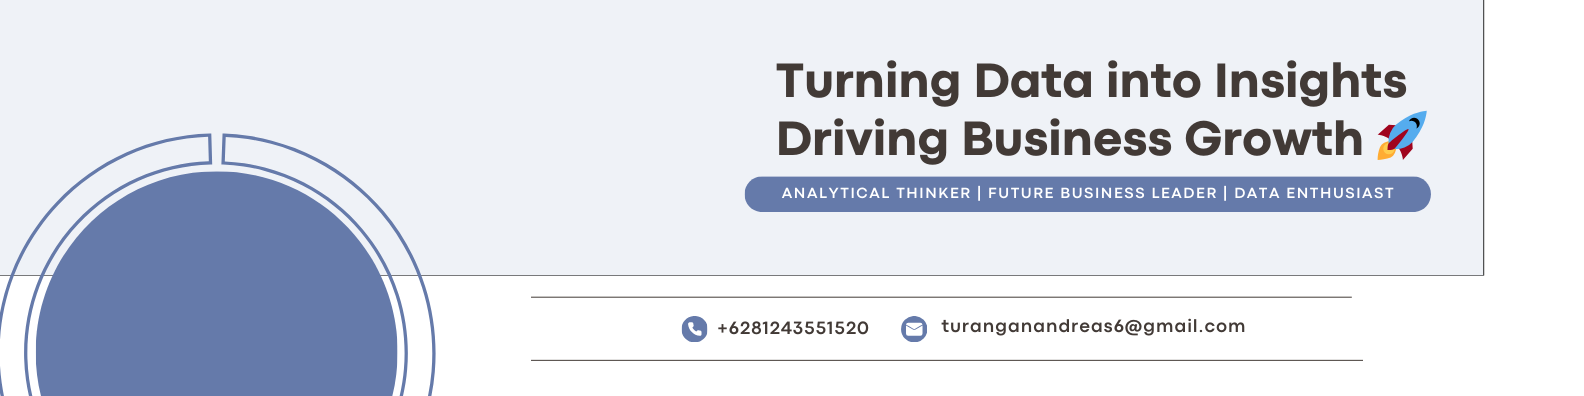
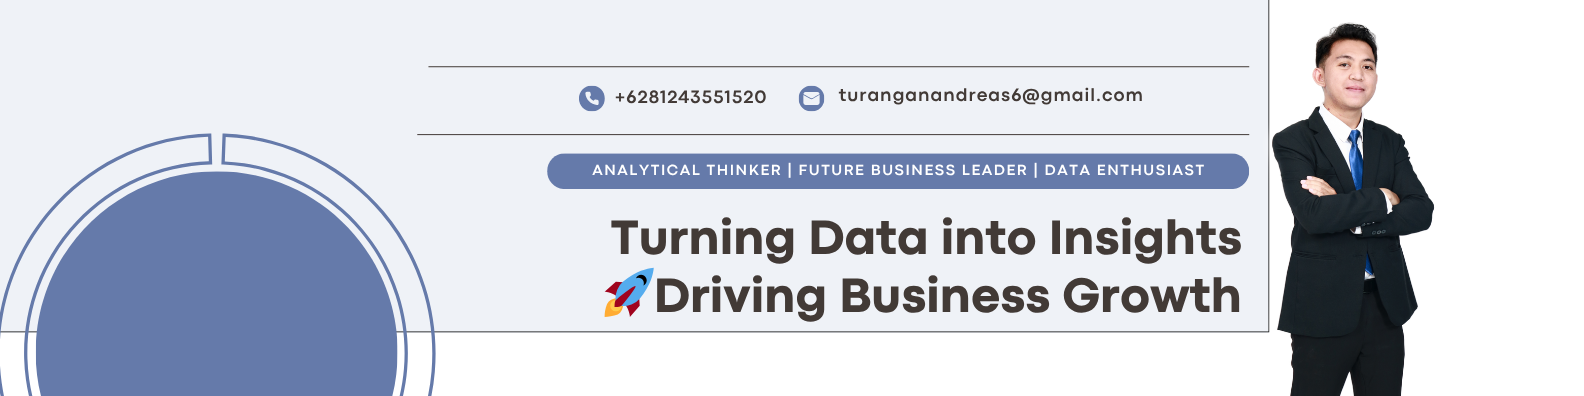
Profile Update 1

Changed region(s): [[0.2475, 0.0606, 0.928, 1.0], [0.0, 0.8182, 0.0309, 0.8485]]

diff --git a/README.md b/README.md
@@ -1,16 +1,10 @@
 ## Hi there 👋
 ![Banner](img/Banner.png)
-<!--
-**AndreasTurangan6/AndreasTurangan6** is a ✨ _special_ ✨ repository because its `README.md` (this file) appears on your GitHub profile.
 
-Here are some ideas to get you started:
+💻 Informatics Engineering graduate | Passionate about Data Analyst & Machine Learning  
+📊 Exploring insights through Python, SQL, and ML models  
+🚀 Actively building projects in NLP, Computer Vision & Business Analytics  
+🎓 Computer Science at Sam Ratulangi University | Part of Pertukaran Mahasiswa Merdeka | Machine Learning Cohort Bangkit Academy
+📫 Let's connect: [LinkedIn](https://www.linkedin.com/in/andreasturangan/)
 
-- 🔭 I’m currently working on ...
-- 🌱 I’m currently learning ...
-- 👯 I’m looking to collaborate on ...
-- 🤔 I’m looking for help with ...
-- 💬 Ask me about ...
-- 📫 How to reach me: ...
-- 😄 Pronouns: ...
-- ⚡ Fun fact: ...
--->
+![Top Langs](https://github-readme-stats.vercel.app/api/top-langs/?username=AndreasTurangan6&layout=compact)
